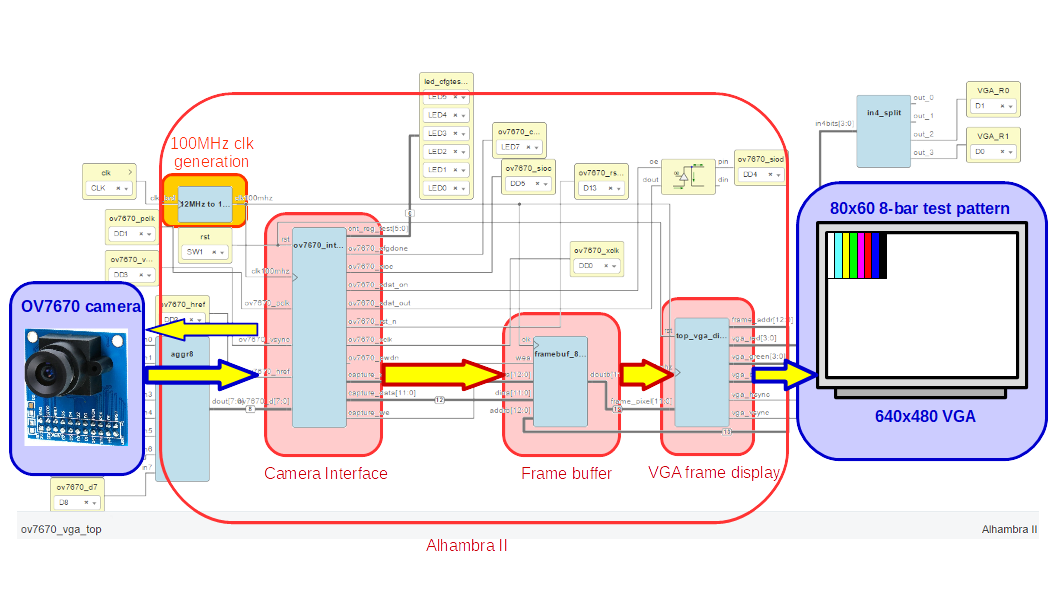
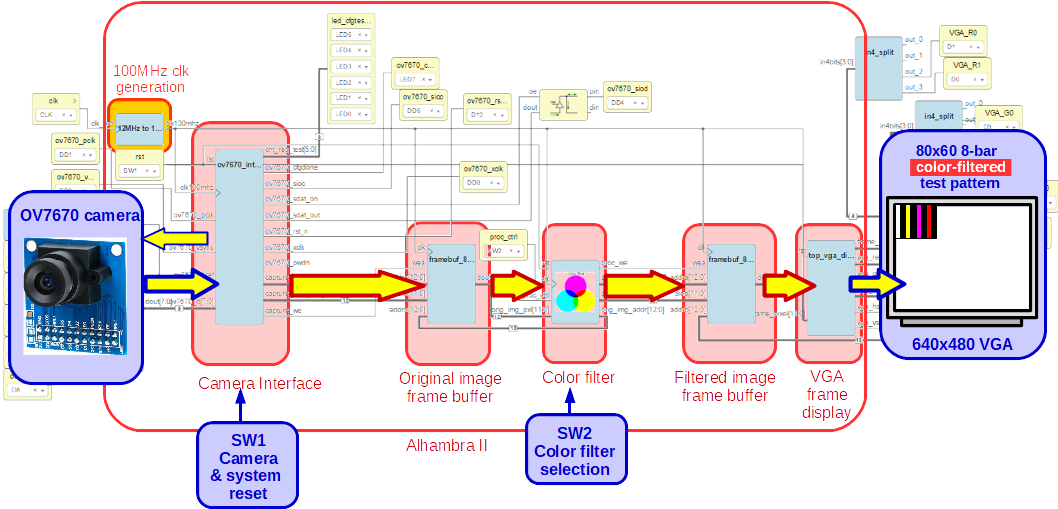
Update readme and add pictures for documentation

diff --git a/Projects/ComputerVision/README.md b/Projects/ComputerVision/README.md
@@ -1,34 +1,44 @@
 The goal of this project is to perform image processing inside FPGAs, different operations like edge computation, color filtering, convolutions...
 
 
--Basics/HexImgStorage:
+- Basics/HexImgStorage:
 
   ![](https://github.com/JdeRobot/FPGA-robotics/blob/master/Projects/ComputerVision/Basics/HexImgStorage/Diagram.png)
   
   
--Basics/HexImageFilter:
+- Basics/HexImageFilter:
 
   ![](https://github.com/JdeRobot/FPGA-robotics/blob/master/Projects/ComputerVision/Basics/HexImageFilter/Untitled%20Diagram.png)
 
 
--HexToVGA:
+- HexToVGA:
 
   ![](https://github.com/JdeRobot/FPGA-robotics/blob/master/Projects/ComputerVision/HexToVGA/Untitled%20Diagram.png)
 
   
--ov7670_test:
+- ov7670_test:
   Same project as the Apio ov7670_rgb444_80x60 adapted for icestudio.
   ![OV7670 test icestudio](ov7670_test/ov7670_vga_top_icestudio.png)
-  
+  ![OV7670 test icestudio flow](ov7670_test/ov7670_vga_top_icestudio_flow.png)
+
+- ov7670_color_proc:
+  Same project as the Apio ov7670_rgb444_80x60_color_proc adapted for icestudio.
+  ![OV7670 test icestudio](ov7670_colorfilter/ov7670_vga_top_icestudio_procolor.png)
+  ![OV7670 test icestudio flow](ov7670_colorfilter/ov7670_vga_top_icestudio_flow.png)
   
 ### Alhambra II Apio projects
 
--vga_test_100mhz
+- vga_test_100mhz
   Display a test card on a 640x480 VGA with Alhambra II using 100MHz PLL generated clock
   
--ov7670_rgb444_80x60
+- ov7670_rgb444_80x60
   Display 80x60 video on a VGA from the ov7670 camera using Alhambra II
   Camera in test mode
+
+- ov7670_rgb444_80x60_color_proc
+  ov7670 camera capture, color processing and 80x60 VGA display using Alhambra II
+  Camera in test mode QQVGA/2 (80x60)
+
   
    ![OV7670 camera and alhambra pin connection](ov7670_alhambra_interface.png)
   
